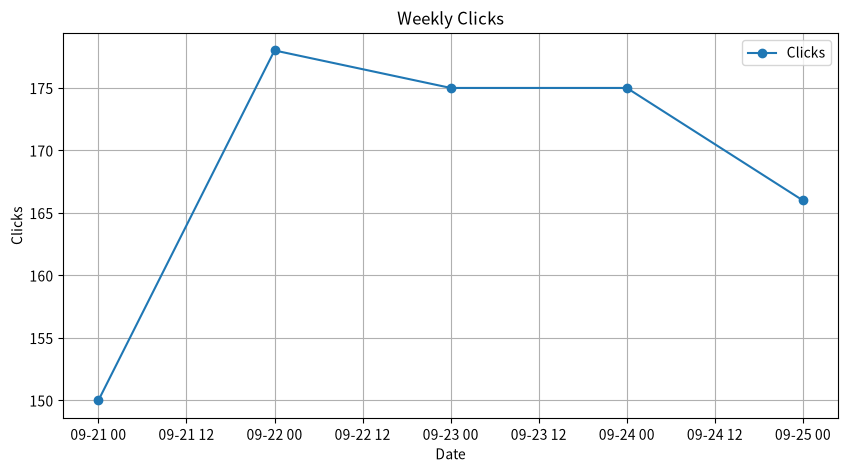
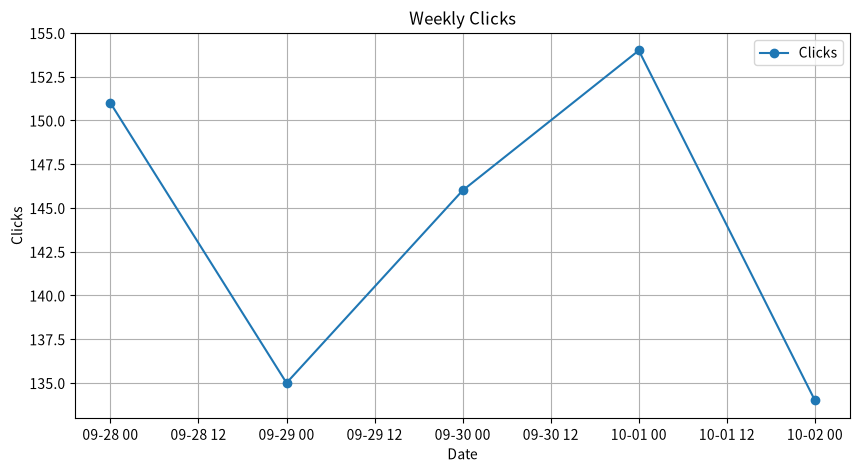
Weekly SEO report (2026-09-28 to 2026-10-04)

diff --git a/reports/index.html b/reports/index.html
@@ -13,14 +13,14 @@
   </style>
 </head>
 <body>
-  <h1>Weekly Report (2026-09-21 ~ 2026-09-27)</h1>
+  <h1>Weekly Report (2026-09-28 ~ 2026-10-04)</h1>
 
   <div class="card">
     <h2>Summary</h2>
     <table>
       <tr><th>Metric</th><th>This Week</th><th>Prev Week</th><th>Change</th></tr>
-      <tr><td>Clicks</td><td>844</td><td>1146</td><td>-26.4%</td></tr>
-      <tr><td>Impressions</td><td>41172</td><td>60048</td><td>-31.4%</td></tr>
+      <tr><td>Clicks</td><td>720</td><td>1187</td><td>-39.3%</td></tr>
+      <tr><td>Impressions</td><td>37596</td><td>56665</td><td>-33.7%</td></tr>
     </table>
     <p class="muted">※ Prev Week = 7日前の同期間</p>
   </div>
